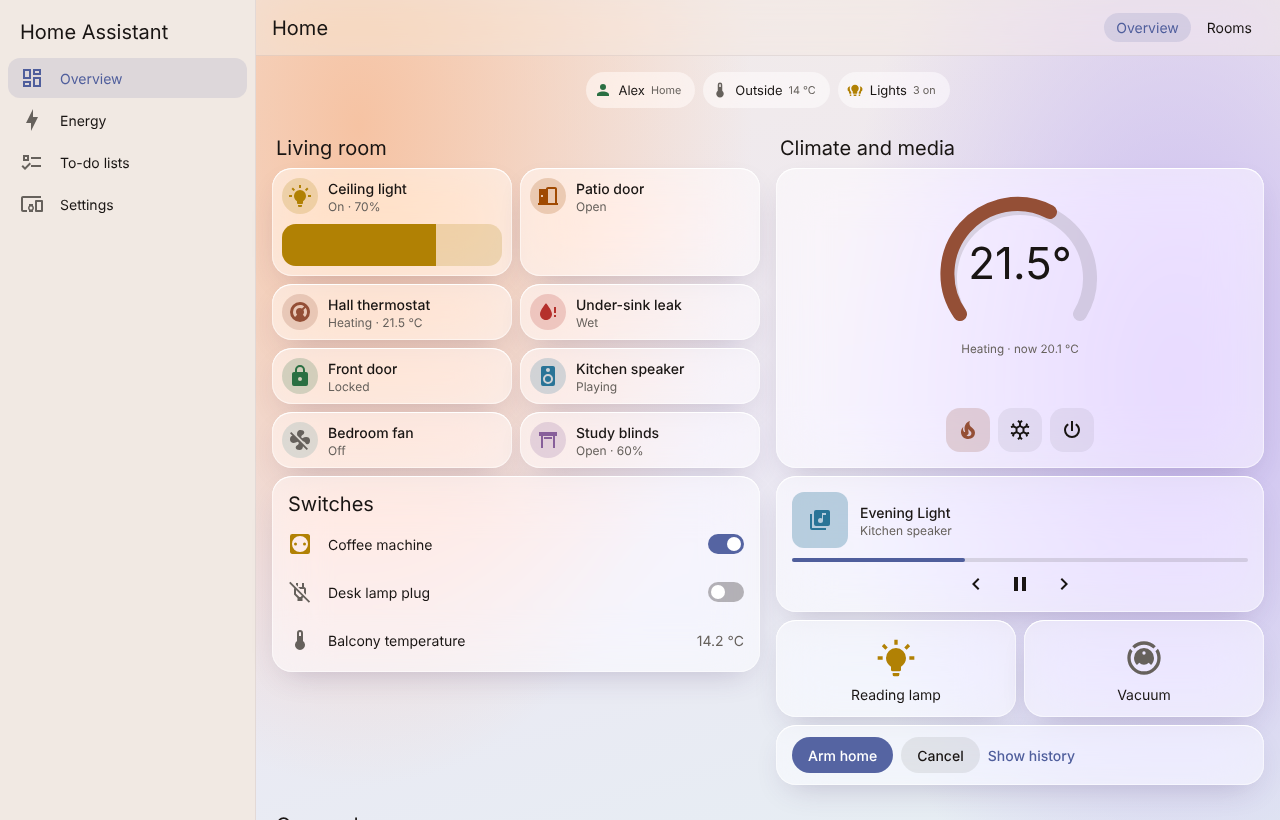
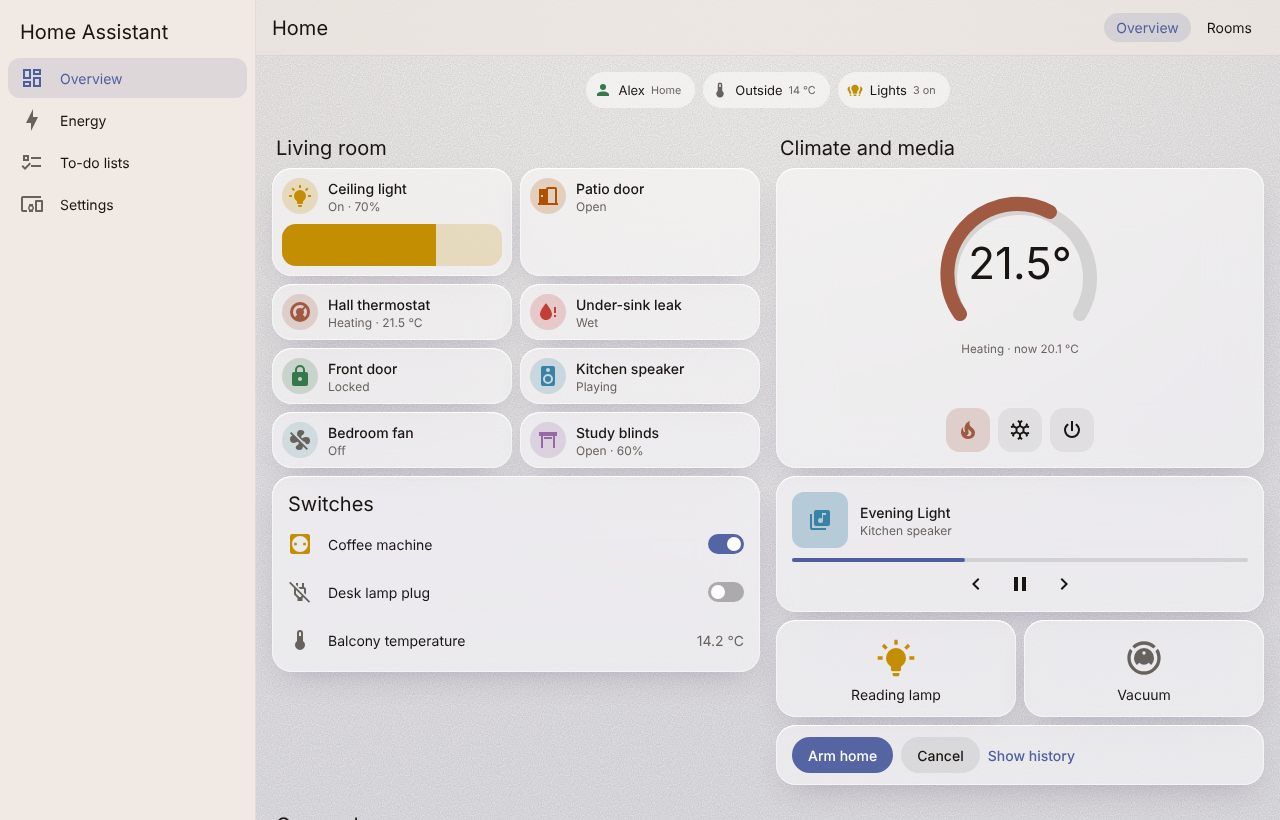
feat(glass): replace colour fields with a textured background

Changed region(s): [[0.1875, 0.0, 1.0, 1.0], [0.375, 0.5488, 0.4062, 0.5793], [0.375, 0.4878, 0.4062, 0.5183]]

diff --git a/README.md b/README.md
@@ -7,7 +7,7 @@ A calm theme family for Home Assistant. Neutral surfaces, one accent, and colour
 | | Light | Dark |
 | :- | :- | :- |
 | **Pulse**: matte, warm stone and linen greys, hairline edges (plus a soft shadow in light mode), dusk-blue accent | ![Pulse light](docs/pulse-light.png) | ![Pulse dark](docs/pulse-dark.png) |
-| **Pulse Glass**: frosted cards with a lit rim, floating over soft fields of colour, inspired by visionOS | ![Pulse Glass light](docs/glass-light.png) | ![Pulse Glass dark](docs/glass-dark.png) |
+| **Pulse Glass**: frosted cards with a lit rim, floating over a quiet, finely grained background, inspired by visionOS | ![Pulse Glass light](docs/glass-light.png) | ![Pulse Glass dark](docs/glass-dark.png) |
 | **Pulse Tonal**: filled mauve cards on a clean page, rounder shapes, rounded-square tile icons, inspired by Material You | ![Pulse Tonal light](docs/tonal-light.png) | ![Pulse Tonal dark](docs/tonal-dark.png) |
 
 ## Features
@@ -56,7 +56,7 @@ You can also give a single dashboard view its own theme: edit the view and pick 
 
 ## Accessibility
 
-Contrast is measured, not eyeballed: 80–81 pairs per variation and mode, covering text on cards, page, chips, dialogs, header and sidebar; text on buttons; and every state colour as an icon on its tile tint and on a chip, plus as text where it's used as text. For Pulse Glass, every pair is measured against the worst case: the frosted card over each colour of the gradient.
+Contrast is measured, not eyeballed: 80–81 pairs per variation and mode, covering text on cards, page, chips, dialogs, header and sidebar; text on buttons; and every state colour as an icon on its tile tint and on a chip, plus as text where it's used as text. For Pulse Glass, every pair is measured against the worst case: the frosted card over each colour stop of the background.
 
 **One deliberate exception.** In light mode, lights use a bright gold that reaches about 2.6:1 on a card and 2.2:1 on its own tile tint, below the 3:1 minimum for icons. Every yellow that reaches 3:1 on a light background looks mustard or brown. A light's state is always also written as text ("On · 70%"), so colour is never the only signal. In dark mode, lights pass normally.
 
@@ -67,7 +67,7 @@ A theme can only set variables that Home Assistant exposes. It can't change:
 - A light's real colour on tiles and in more-info. That's intended: it's meaningful colour.
 - Icons, layout and density of the built-in cards, and HA's own animations.
 - The coloured icons in the Settings menu, brand images and logos (HA hard-codes them).
-- The background of a view that has its own background set in the dashboard editor (your choice wins over Pulse Glass's gradient).
+- The background of a view that has its own background set in the dashboard editor (your choice wins over Pulse Glass's background).
 - Motion and other "detected" sensors. They use HA's generic *active* colour, which is the lights' gold. To change that, override `state-binary_sensor-motion-on-color` (or any other `state-<domain>-<device_class>-<state>-color`) in your own copy of the theme.
 - **On Home Assistant 2025.x:** feature bars keep a fixed 12px radius (same value anyway), tile icons stay circles in Pulse Tonal, and buttons and switches follow `primary-color` through the older component styles.
 

diff --git a/AGENTS.md b/AGENTS.md
@@ -123,7 +123,7 @@ Lights use bright gold in light mode (`pulse-active`, `amber-color`): about 2.6:
 
 ### Pulse Glass
 
-- The gradient (`lovelace-background`) is pure CSS. Its colour stops are what the contrast check composites the frosted card over, so editing the gradient changes contrast: run the check.
+- The background (`lovelace-background`) is pure CSS: a fine grain (an inline, percent-encoded SVG noise tile from `grain()` in `scripts/palette.mjs`, nothing downloaded), one soft pool of light at the top and a neutral base gradient. No colour fields: behind translucent cards they made cards look stateful (a red-orange card read as a problem). The hex colour stops are what the contrast check composites the frosted card over, so editing them changes contrast: run the check. The grain is left out of the check; the card's blur averages it away.
 - Blur (`ha-card-backdrop-filter`, `app-header-backdrop-filter`, `ha-dialog-surface-backdrop-filter`) is the theme's only performance cost. Don't add more blurred surfaces. If old tablets stutter, the agreed fallback is a fourth theme, "Pulse Glass Lite", with the same values and no blur.
 - The sidebar can't blur, so it uses the page colour, not a translucent one.
 
@@ -148,7 +148,7 @@ The harness applies the theme exactly like HA, but its native cards are look-ali
 - The real dashboards, more-info dialogs, settings pages, the energy dashboard, the map and the history graphs, in all three themes, light and dark.
 - His phone (Companion app): status bar colour, safe areas, the font (SF on iOS).
 - Pulse Glass on his wall tablet or oldest device: smooth scrolling?
-- A view with its own background set (should win over Glass's gradient).
+- A view with its own background set (should win over Glass's background).
 - Custom cards he uses that aren't ours.
 - After an HA update: buttons, switches and checkboxes still follow the accent (the newer design tokens group).
 
